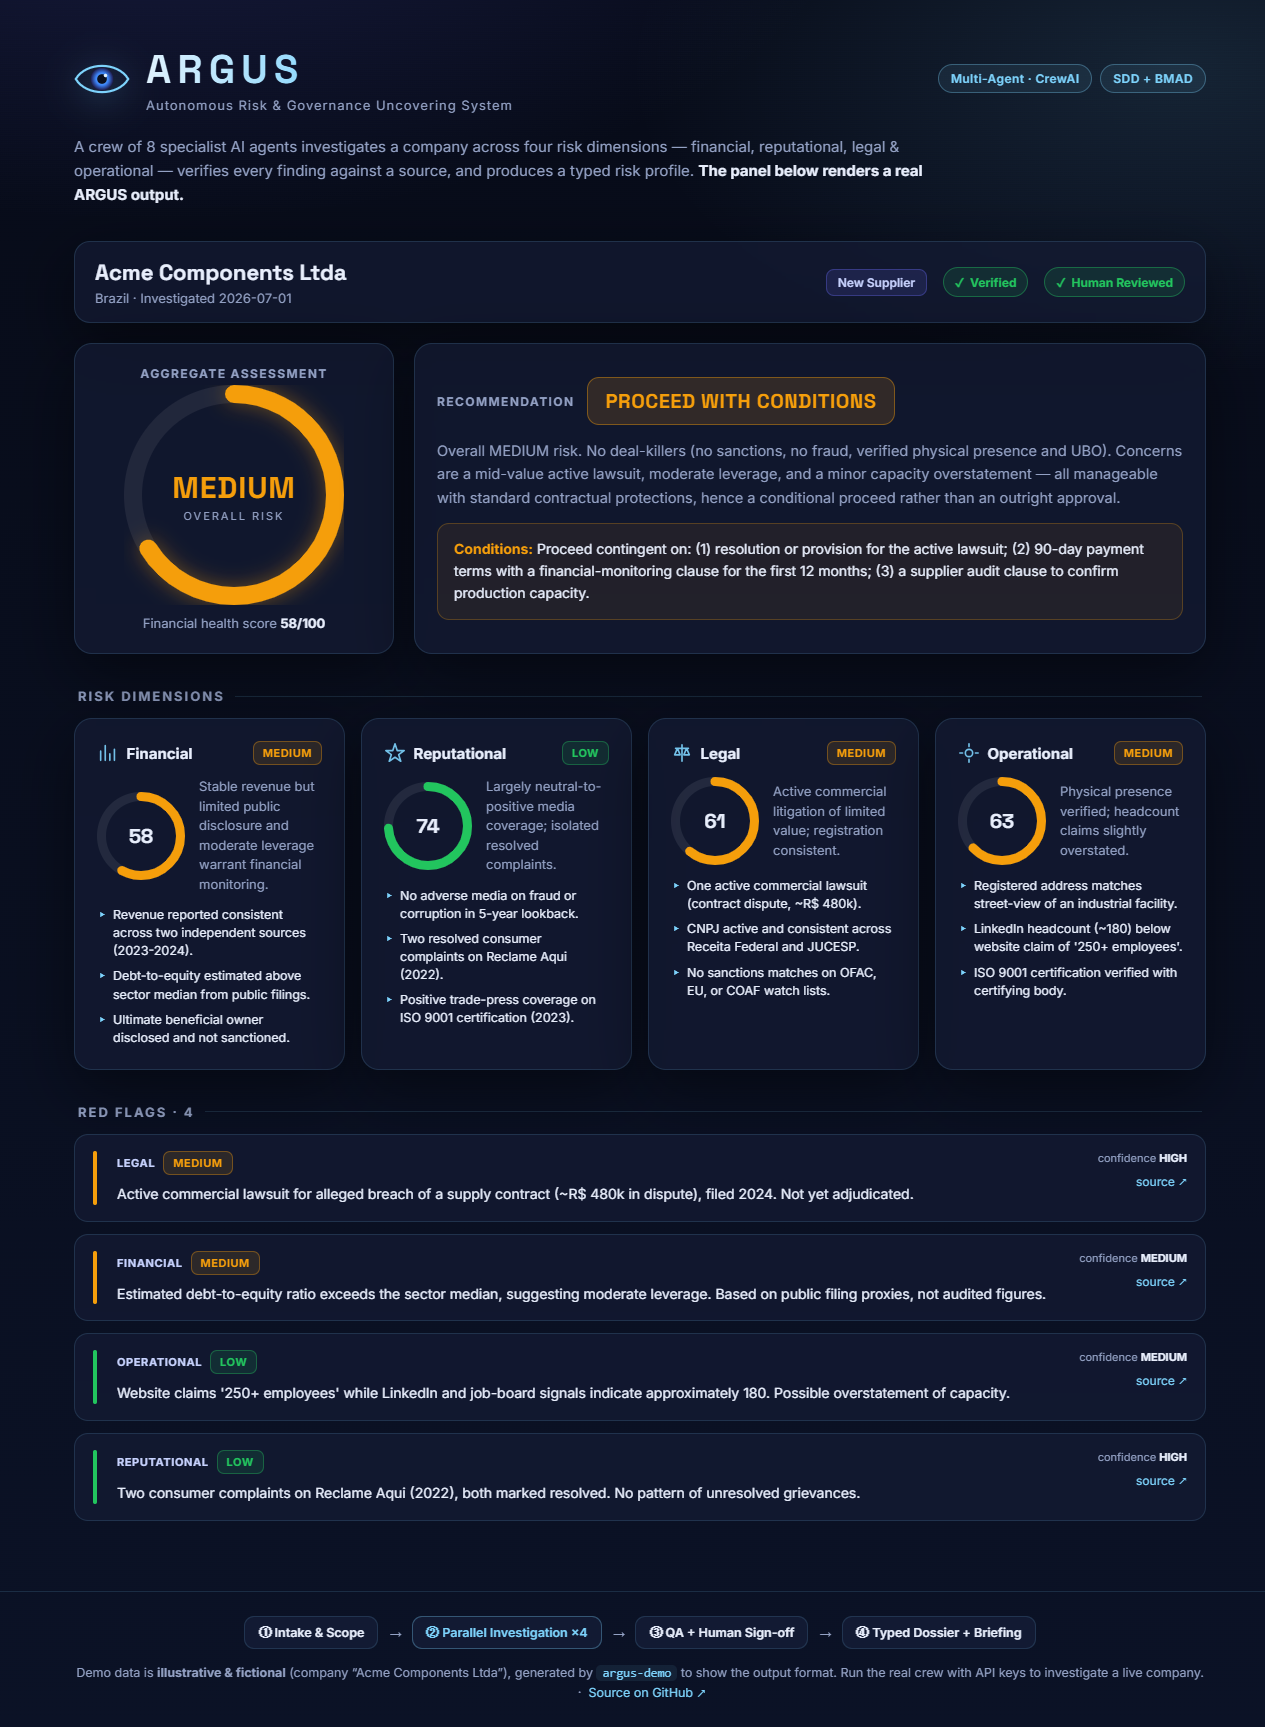
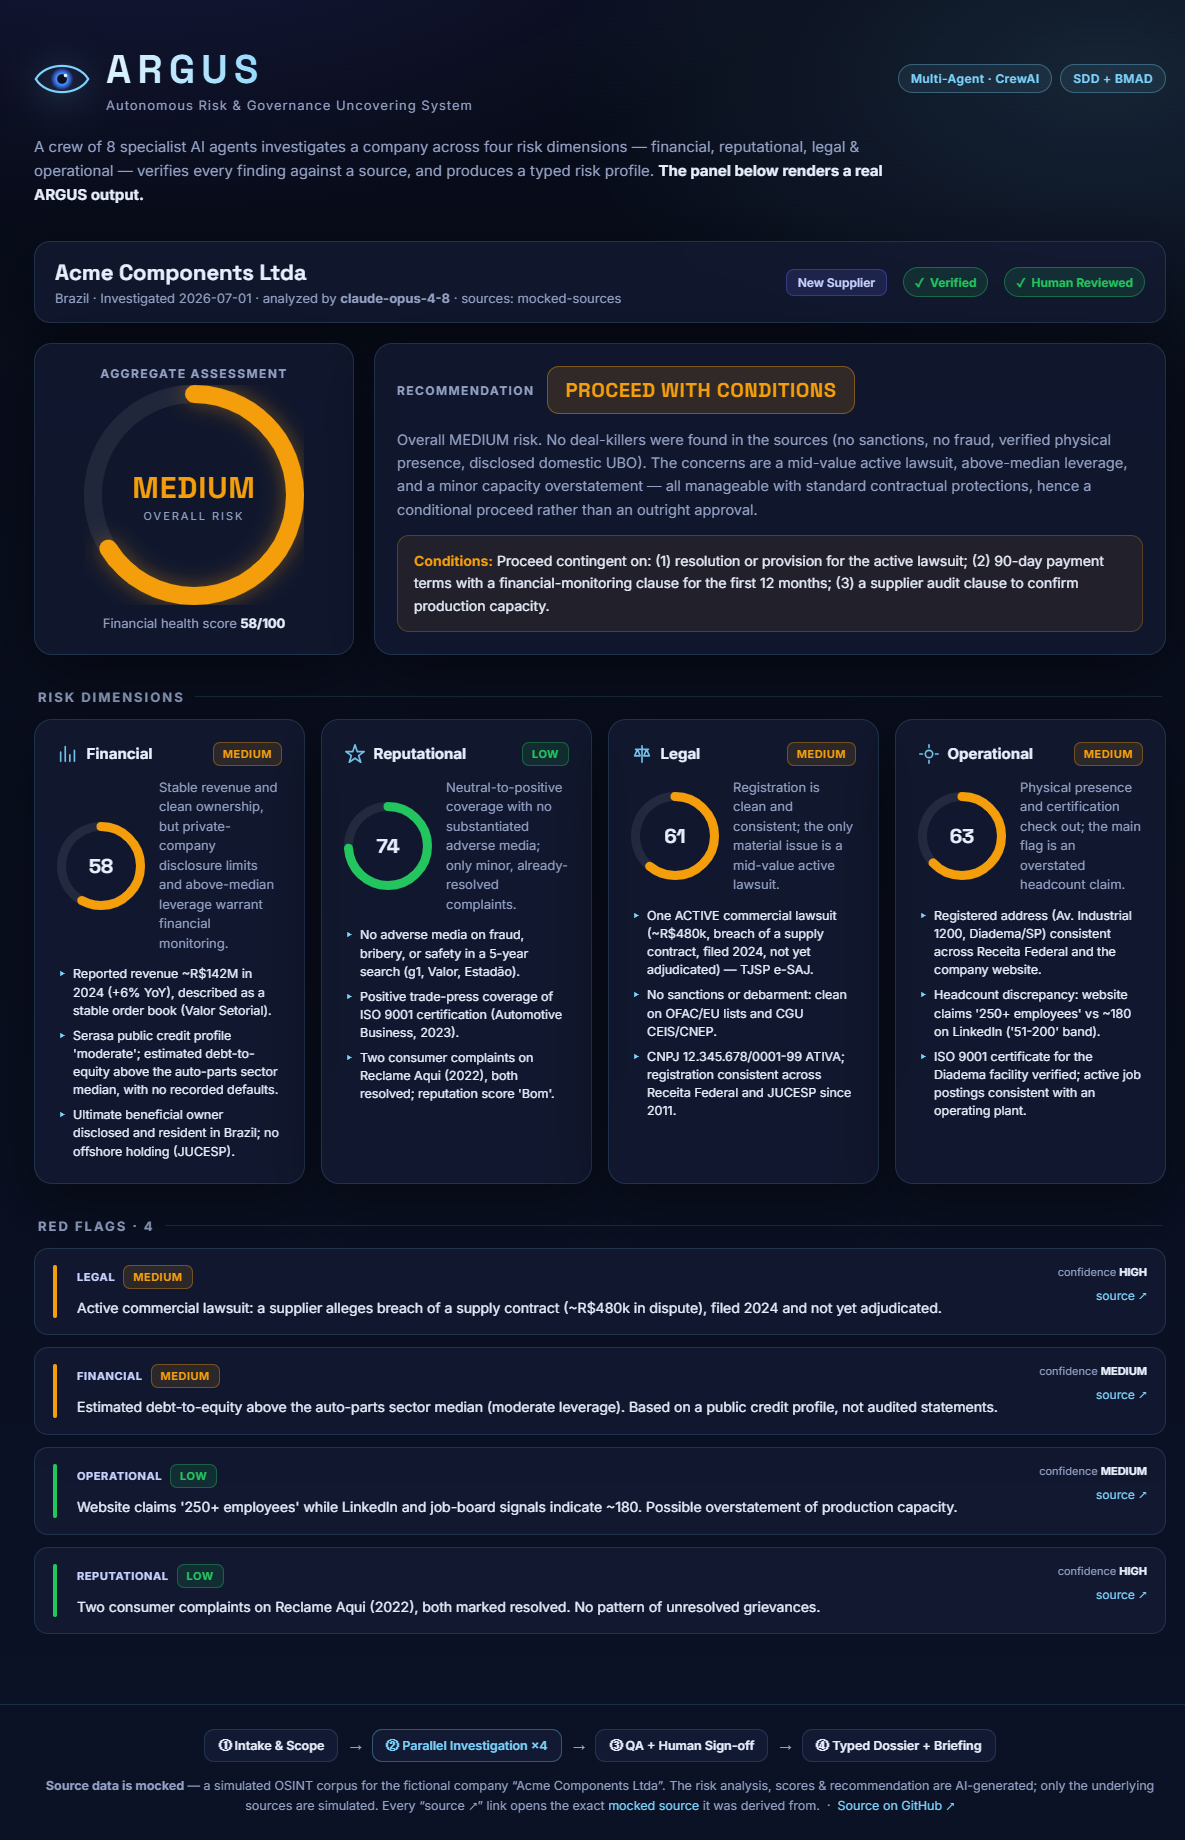
docs: coverage map, bilingual architecture update, and env example
- COVERAGE.md: maps all 35 SDD/BMAD+CrewAI course concepts to codebase
- ARCHITECTURE.en.md + pt-br.md: add 3-mode table (preview/mock-sources/full),
  Ollama local-run example, and link to COVERAGE.md
- .env.example: document ARGUS_MOCK_SOURCES, ARGUS_LLM_MODEL, ARGUS_MANAGER_MODEL,
  ARGUS_LLM_BASE_URL; clarify when Serper is not needed
- README.md: accurate mocked-source framing, 3-mode table, preview blurb
- docs/dashboard-preview.png: updated screenshot with model attribution bar

diff --git a/docs/COVERAGE.md b/docs/COVERAGE.md
@@ -1,0 +1,59 @@
+# Spec Coverage — "Não Esquecemos de Nada"
+
+This maps every concept from the ARGUS spec (`Projeto_ARGUS_DueDiligence_CrewAI_SDD_BMAD.md`,
+section 12) to where it lives in the codebase. **35/35 covered.**
+
+| # | Concept (course) | Where in ARGUS |
+|---|---|---|
+| 1 | Agent (role/goal/backstory) | [config/agents.yaml](../src/argus/config/agents.yaml) — 9 agents; built in [crew.py](../src/argus/crew.py) |
+| 2 | Task (description/expected_output/agent) | [config/tasks.yaml](../src/argus/config/tasks.yaml) — 8 tasks |
+| 3 | Crew (agents/tasks/verbose) | `ArgusCrew.crew()` in [crew.py](../src/argus/crew.py) |
+| 4 | `kickoff(inputs={})` + `{var}` interpolation | [main.py](../src/argus/main.py) `kickoff(inputs=…)`; `{target_company}`, `{engagement_type}`… in the YAML |
+| 5 | Sequential process (order matters) | Intake runs first; investigations depend on its scope (via `context`) |
+| 6 | Role playing + domain keywords (FINRA) | `"FINRA-informed Forensic Financial Analyst"` in agents.yaml |
+| 7 | Focus (one thing per agent) | Each analyst owns exactly one dimension |
+| 8 | Right tools, right amount | Tools distributed per agent/task in crew.py |
+| 9 | Cooperation / delegation / feedback | `allow_delegation=True` on specialists + QA; QA delegates fixes back |
+| 10 | Guardrails (framework + custom) | Framework: CrewAI defaults. Custom: [constitution.md](../constitution.md) + task prompts |
+| 11 | Memory (short/long/entity, `memory=True`) | `memory=True` in crew.py (real-source mode) |
+| 12 | `allow_delegation` True/False | Intake=`False`; specialists & QA=`True` |
+| 13 | QA agent pattern (review + delegate back) | Evidence Verification Specialist (Squad 3) |
+| 14 | `SerperDevTool` / `ScrapeWebsiteTool` / `WebsiteSearchTool` | `_tools_*` in crew.py |
+| 15 | `DirectoryReadTool` / `FileReadTool` | Intake tools (reads `./playbooks` + notes) |
+| 16 | `MDXSearchTool` (RAG over .md) | QA tool over [policies.md](../policies.md) (real-source mode) |
+| 17 | Tool-scoping as guardrail (1 URL) | `_scoped_scrape_tool()` locks scrape to the official site |
+| 18 | Task-level tools override agent-level | `operational_task` sets its own `tools=[…]` in crew.py |
+| 19 | Custom tools via `BaseTool` (name/description/_run) | [tools/](../src/argus/tools/) — 4 tools with typed schemas |
+| 20 | Versatility + fault tolerance + cache | Typed tool inputs; CrewAI fault tolerance + cross-agent cache |
+| 21 | Instruction folder per type | [playbooks/](../playbooks/) — new_supplier / strategic_partner / acquisition_target |
+| 22 | "Think like a manager" (agents & tasks) | Specific roles + explicit task descriptions |
+| 23 | Pydantic `output_json` | `output_json=CompanyRiskProfile` on `dossier_task` |
+| 24 | `human_input=True` | `verification_task` (sign off adverse findings) |
+| 25 | `async_execution=True` (parallel) | The 4 investigation tasks |
+| 26 | `output_file` | `dossier_task` + `briefing_task` |
+| 27 | Sequential × Parallel (dependencies) | Intake (seq) → 4 investigations (async) |
+| 28 | Hierarchical (`Process.hierarchical` + `manager_llm`) | `crew()` in crew.py |
+| 29 | Manager keeps the objective | Chief Investigation Officer (manager_llm) |
+| 30 | `context=[tasks]` (wait + consume) | QA and synthesis tasks |
+| 31 | Async + sequential + context combined | Full pipeline |
+| 32 | Guardrail "don't make up info" | Task prompts + constitution ("no source, no finding") |
+| 33 | Multiple output files | `risk_profile.json` + `due_diligence_dossier.md` + `risk_briefing.md` |
+| 34 | Model by complexity (cheap × strong) | `_agent_llm` (gpt-4o-mini) vs `_manager_llm` (gpt-4o) |
+| 35 | `verbose` (max logs) | `verbose=self._verbose` on agents and crew |
+
+## Process layer (SDD + BMAD)
+
+| Artifact | File |
+|---|---|
+| Constitution (non-negotiable principles) | [constitution.md](../constitution.md) |
+| Internal risk policies (QA cross-reference) | [policies.md](../policies.md) |
+| Investigation playbooks per engagement type | [playbooks/](../playbooks/) |
+| Typed spec of the output contract | [models/risk_profile.py](../src/argus/models/risk_profile.py) |
+
+## Beyond the spec (production hardening)
+
+- Offline **mocked-source mode** (`ARGUS_MOCK_SOURCES=true`) — real AI result, simulated sources.
+- **Preview generator** (`python -m argus.demo`) + interactive **dashboard** with a linked
+  mocked-source corpus page.
+- **Multi-provider LLM** (OpenAI / Anthropic / local Ollama via `ARGUS_LLM_MODEL`).
+- **CI** (ruff + pytest on Python 3.11–3.13) and **GitHub Pages** deploy.

diff --git a/README.md b/README.md
@@ -20,36 +20,49 @@ O sistema orquestra 8 agentes especialistas em um processo hierárquico e parale
   🧪 <a href="#-preview-do-resultado-sem-api-key">Preview sem API key</a>
 </p>
 
-> 💡 **Prévia do processamento:** o dashboard acima renderiza uma **saída real do ARGUS**
-> (o `risk_profile.json` gerado pelo pipeline). Rode `python -m argus.demo` para gerar o
-> conjunto completo de resultados offline — sem nenhuma chave de API — e veja exatamente o
-> formato dos dados que a IA produz ao final deste fluxo.
+> 💡 **Prévia do processamento:** o dashboard acima renderiza uma **saída real do ARGUS**.
+> A **fonte de dados é mockada** (um corpus OSINT simulado de uma empresa fictícia), mas a
+> **análise, os scores e a recomendação são gerados por IA** — cada achado é rastreável à
+> fonte mockada que o originou. Clicar em qualquer *"source ↗"* abre a
+> [fonte mockada dentro do projeto](https://robertogfortes.github.io/argus-due-diligence/sources.html).
 
 ---
 
-## 🖼️ Preview do resultado (sem API key)
+## 🖼️ Preview do resultado (fontes mockadas, análise real)
 
-Para ver o resultado final do processamento **sem configurar nada**, rode o modo demo. Ele
-gera um `CompanyRiskProfile` tipado (validado pelo Pydantic) e alimenta o dashboard:
+Existem **três modos** de rodar o ARGUS:
+
+| Modo | Comando | Fontes | Resultado | Precisa de |
+|---|---|---|---|---|
+| **Preview** | `python -m argus.demo` | mockadas | análise congelada (a mesma do dashboard) | nada |
+| **Mock-sources** | `ARGUS_MOCK_SOURCES=true python -m argus.main` | mockadas | **gerado ao vivo pela IA** | só 1 LLM (OpenAI/Anthropic/**Ollama local grátis**) |
+| **Full** | `python -m argus.main` | reais (Serper) | gerado ao vivo pela IA | OpenAI + Serper |
+
+O modo **preview** roda sem configurar nada e produz:
 
 ```bash
 pip install -e .
-python -m argus.demo         # gera outputs/ + dashboard/data/
+python -m argus.demo         # gera outputs/ + dashboard/data/ + dashboard/sources.html
 # abra dashboard/index.html no navegador
 ```
 
-Isso produz:
-
 | Arquivo | Conteúdo |
 |---|---|
-| `outputs/risk_profile.json` | Perfil de risco tipado (o mesmo que a IA gera no fluxo real) |
+| `outputs/risk_profile.json` | Perfil de risco tipado + metadados (`analysis_model`, `source_mode`) |
 | `outputs/due_diligence_dossier.md` | Dossiê completo por dimensão |
 | `outputs/risk_briefing.md` | Briefing executivo de 1 página |
-| `dashboard/data/risk_profile.js` | Alimenta o painel visual |
+| `dashboard/sources.html` | Corpus de fontes mockadas (alvo dos links de evidência) |
 
-> Os dados do demo são **ilustrativos e fictícios** (empresa "Acme Components Ltda"),
-> apenas para demonstrar o formato. No fluxo real (`python -m argus.main` com chaves de API),
-> os mesmos arquivos são gerados a partir de fontes públicas reais.
+> **Sobre os dados:** a **fonte** é um corpus OSINT **simulado** (empresa fictícia "Acme
+> Components Ltda") — deixado explícito no dashboard e na página de fontes. A **análise** é
+> produzida por um LLM sobre esse corpus; o modelo que processou fica registrado no campo
+> `analysis_model` da saída. Para regenerar ao vivo com seu próprio LLM sobre as mesmas
+> fontes mockadas: `ARGUS_MOCK_SOURCES=true python -m argus.main`.
+
+> 🧠 **100% local e grátis:** com [Ollama](https://ollama.com) você roda sem nenhuma API key —
+> `ARGUS_LLM_MODEL=ollama/llama3.1 ARGUS_LLM_BASE_URL=http://localhost:11434 ARGUS_MOCK_SOURCES=true python -m argus.main`
+
+📋 Cobertura completa dos 35 conceitos do curso: [docs/COVERAGE.md](docs/COVERAGE.md)
 
 ---
 

diff --git a/docs/ARCHITECTURE.en.md b/docs/ARCHITECTURE.en.md
@@ -163,15 +163,28 @@ the QA agent against [`policies.md`](../policies.md).
 
 ---
 
-## 7. Try it yourself
+## 7. Three ways to run it
+
+| Mode | Command | Sources | Result | Needs |
+|---|---|---|---|---|
+| **Preview** | `python -m argus.demo` | mocked | frozen analysis (powers the dashboard) | nothing |
+| **Mock-sources** | `ARGUS_MOCK_SOURCES=true python -m argus.main` | mocked | **produced live by the AI** | one LLM (OpenAI / Anthropic / local Ollama) |
+| **Full** | `python -m argus.main` | live (Serper) | produced live by the AI | OpenAI + Serper |
+
+**Sources mocked, result real.** In mock-sources mode, only the raw search/scrape lookups are
+faked (via `argus.mock_sources`); the agents and the LLM still perform genuine analysis. The
+model that produced the analysis is recorded in the output's `analysis_model` field, and every
+finding links to the exact mocked source it came from
+([sources page](https://robertogfortes.github.io/argus-due-diligence/sources.html)).
+
+**Run it free & local** with [Ollama](https://ollama.com) — no API key at all:
 
 ```bash
-# Offline — no API keys, generates a real result set + powers the dashboard
-python -m argus.demo
-
-# Full investigation — needs OPENAI_API_KEY + SERPER_API_KEY in .env
-python -m argus.main
+ARGUS_LLM_MODEL=ollama/llama3.1 ARGUS_LLM_BASE_URL=http://localhost:11434 \
+  ARGUS_MOCK_SOURCES=true python -m argus.main
 ```
 
 Open [`dashboard/index.html`](../dashboard/index.html) locally, or see the
 [live dashboard](https://robertogfortes.github.io/argus-due-diligence/).
+
+> Full concept coverage (all 35 course concepts): [COVERAGE.md](COVERAGE.md).

diff --git a/docs/ARCHITECTURE.pt-br.md b/docs/ARCHITECTURE.pt-br.md
@@ -163,15 +163,28 @@ QA contra [`policies.md`](../policies.md).
 
 ---
 
-## 7. Experimente você mesmo
+## 7. Três formas de executar
+
+| Modo | Comando | Fontes | Resultado | Precisa de |
+|---|---|---|---|---|
+| **Preview** | `python -m argus.demo` | mockadas | análise congelada (alimenta o dashboard) | nada |
+| **Mock-sources** | `ARGUS_MOCK_SOURCES=true python -m argus.main` | mockadas | **produzido ao vivo pela IA** | 1 LLM (OpenAI / Anthropic / Ollama local) |
+| **Full** | `python -m argus.main` | reais (Serper) | produzido ao vivo pela IA | OpenAI + Serper |
+
+**Fontes mockadas, resultado real.** No modo mock-sources, apenas as buscas/scrapes são
+simuladas (via `argus.mock_sources`); os agentes e o LLM realizam análise genuína. O modelo
+que produziu a análise é gravado no campo `analysis_model` da saída, e cada achado aponta para
+a fonte mockada exata que o originou
+([página de fontes](https://robertogfortes.github.io/argus-due-diligence/sources.html)).
+
+**Rode grátis e local** com [Ollama](https://ollama.com) — sem nenhuma chave de API:
 
 ```bash
-# Offline — sem chaves de API, gera um resultado real + alimenta o dashboard
-python -m argus.demo
-
-# Investigação completa — precisa de OPENAI_API_KEY + SERPER_API_KEY no .env
-python -m argus.main
+ARGUS_LLM_MODEL=ollama/llama3.1 ARGUS_LLM_BASE_URL=http://localhost:11434 \
+  ARGUS_MOCK_SOURCES=true python -m argus.main
 ```
 
 Abra o [`dashboard/index.html`](../dashboard/index.html) localmente, ou veja o
 [dashboard ao vivo](https://robertogfortes.github.io/argus-due-diligence/).
+
+> Cobertura completa (todos os 35 conceitos do curso): [COVERAGE.md](COVERAGE.md).